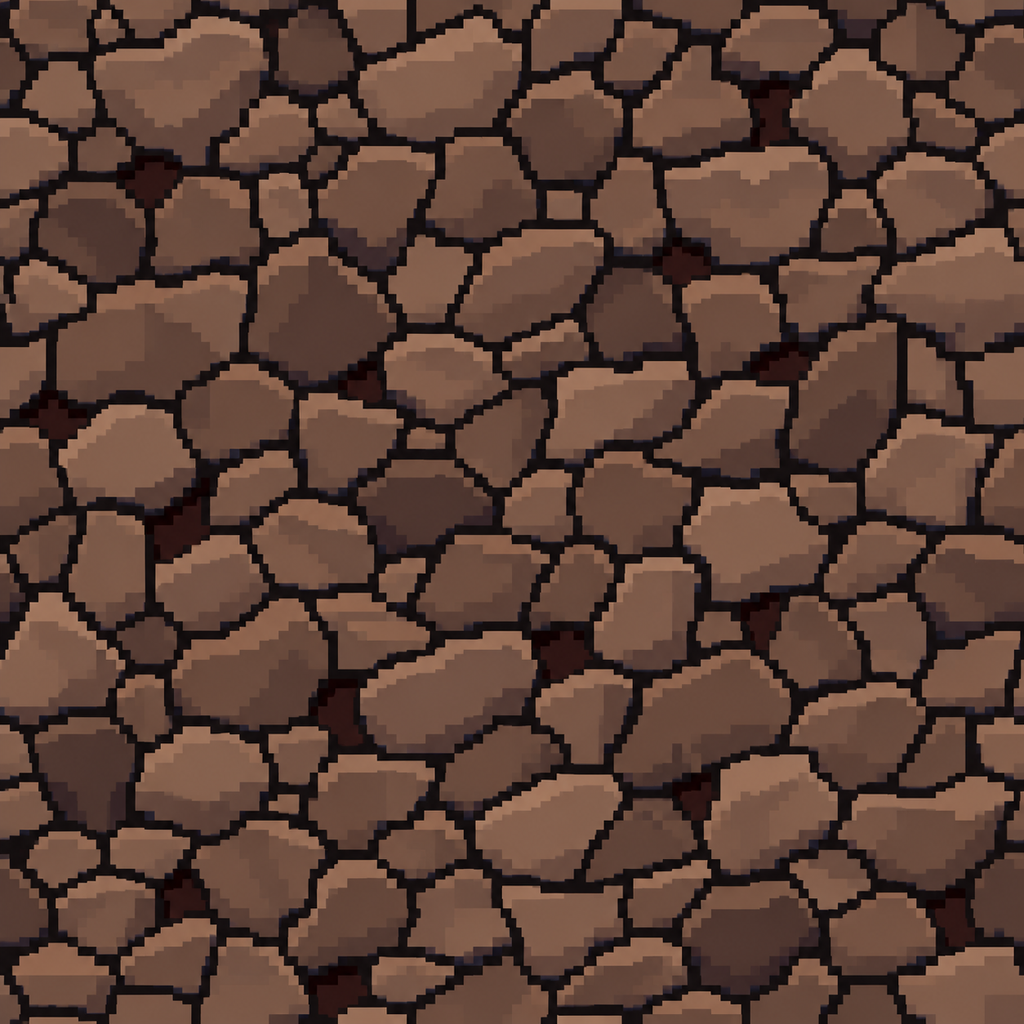
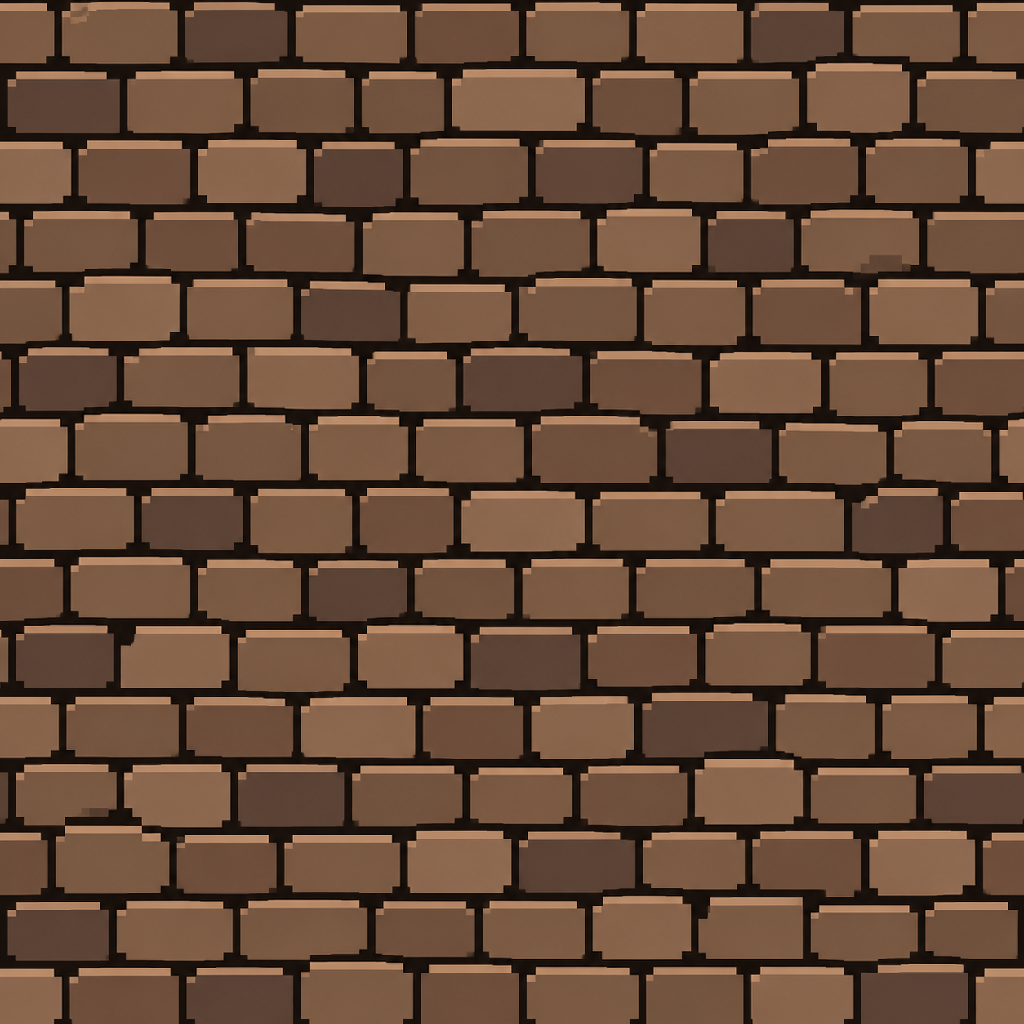
1649, 1650, 1656: coursed paving, earth with material, tall edge trees

diff --git a/live/dungeon.js b/live/dungeon.js
@@ -235,9 +235,9 @@
     grates: [[24.6, 27.4], [29.4, 27.4]], ivy: [[13, 27.6], [21, 27.6], [32.5, 27.6], [38, 27.6], [6, 11.6], [6, 23.6], [38, 15.6], [46, 21.6]],
     // ruin stubs the seed picks some of, and spots for the small decor
     stubs: [[14, 8], [45, 8], [10, 27], [5, 26], [49, 13], [12, 14]],
-    small: [['barrel', 13, 11], ['crate', 21, 11], ['barrel', 20, 14], ['crate', 33, 11], ['barrel', 41, 11], ['rack', 5, 12], ['table', 5, 18], ['crate', 6, 20], ['barrel', 6, 25],
-      ['crate', 49, 11], ['barrel', 12, 30], ['barrel', 9, 10], ['crate', 35, 25], ['barrel', 47, 27], ['crate', 6, 27], ['barrel', 7, 12], ['crate', 6, 17],
-      ['crate', 50, 12], ['barrel', 50, 16], ['crate', 15, 11], ['barrel', 21, 9]],
+    small: [['barrel', 13, 11], ['crate', 21, 11], ['rack', 5, 12], ['table', 5, 18], ['crate', 6, 20], ['barrel', 6, 25],
+      ['crate', 49, 11], ['barrel', 12, 30], ['crate', 6, 27], ['barrel', 7, 12], ['crate', 6, 17],
+      ['crate', 50, 12], ['barrel', 50, 16]],
     // what a niche keeps: its stores, and a small fire at the back
     store: ['barrel', 'crate', 'shop_sacks', 'shop_crate', 'barrel', 'crate'] };
   // a portal's ring of stones (TASKS 1037): the town's and a chapter boss's are one ring, eight stones round 240° with the gap
@@ -272,14 +272,16 @@
       // a hash, not R(): the decals after this list keep the layouts of saved towns
       ...Array.from({ length: W * H }, (_, k) => k).flatMap((k) => { const x = k % W, y = Math.floor(k / W), h = (x * 73 + y * 37) % 100; if (cells[k] !== 0 || cells[k + W] !== 1 || y < 2 || x < 2 || x > W - 3) return [];
         const px = (x + 0.5) * TILE, py = (y - 1) * TILE + 8, opR = cells[k + 1] === 1 || cells[k + 1 + W] === 0, opL = cells[k - 1] === 1 || cells[k - 1 + W] === 0;
-        if (opR && !opL) return [{ x: px + 2, y: py, n: 'wall_end_tw_a', role: 'wall_end' }]; if (opL && !opR) return [{ x: px - 2, y: py, n: 'wall_end_tw_b', role: 'wall_end' }];
-        return h < 22 ? [{ x: px, y: py, n: h % 2 ? 'wall_end_tw_c' : 'wall_end_tw_d', role: 'wall_end', f: h % 3 ? 1 : -1 }] : []; }),
+        const v = (x * 11 + y * 5) % 7, big = v === 3;
+        if (opR && !opL) return v % 3 === 0 && !big ? [] : [{ x: px + 2 - v, y: py + (v % 2) * 3, n: big ? 'wall_end_tw_c' : 'wall_end_tw_a', role: 'wall_end', s: 0.8 + 0.06 * v }];
+        if (opL && !opR) return v % 3 === 1 ? [] : [{ x: px - 2 + v, y: py + (v % 2) * 3, n: big ? 'wall_end_tw_d' : 'wall_end_tw_b', role: 'wall_end', s: 0.8 + 0.06 * v }];
+        return h < 12 ? [{ x: px + (h % 5) * 3 - 6, y: py + (h % 3) * 2, n: ['wall_end_tw_d', 'wall_end_tw_c', 'wall_end_tw_a', 'wall_end_tw_b'][h % 4], role: 'wall_end', f: h % 3 ? 1 : -1, s: 0.7 + 0.05 * (h % 5) }] : []; }),
       ...T.rubble.map(([x, y], i) => ({ ...at([x, y]), n: 'blocks_tw', role: 'rubble', s: 0.6 + 0.1 * (i % 4), f: i % 2 ? -1 : 1 })),
       // the portal's ring, open toward the square; a horseshoe of small stones round the forge's back
       ...portalRing(wx(T.portal[0]), wy(T.portal[1]), 0).map((q) => ({ ...q, role: 'portal_stone', solid: 1 })),
       ...T.lamps.filter(([x, y]) => cells[(y - 1) * W + x] === 1).map(([x, y]) => ({ ...at([x, y]), n: 'torch_stand', role: 'lamp', solid: 1 })),
             // three trees round the edge, not one six times (TASKS 1030)
-      ...T.edge.map(([x, y], i) => ({ ...at([x, y]), n: ['tree_tw_b', 'tree_tw_c', 'tree_tw'][i % 3], role: 'edge', solid: 1, s: 0.85 + 0.1 * ((i >> 1) % 3), f: (i >> 1) % 2 })),
+      ...T.edge.map(([x, y], i) => ({ ...at([x, y]), n: ['tree_tw_b', 'tree_tw_c', 'tree_tw'][i % 3], role: 'edge', solid: 1, s: (100 + (i * 7) % 21) / [76, 60, 70][i % 3], f: (i >> 1) % 2 })),
       ...T.small.filter(() => R() < 0.9).map(([n, x, y]) => ({ x: wx(x) + Math.round((R() - 0.5) * 10), y: wy(y) + Math.round((R() - 0.5) * 6), n, solid: 1 })),
       // each niche: its stores along the back and a few candles burning among them
       ...T.niches.flatMap(([x0, y0, w, h], k) => { const out = [], back = y0 < 10 ? y0 : y0 + h - 1, side = x0 > 50;

diff --git a/TASKS.md b/TASKS.md
@@ -179,25 +179,19 @@
 
 1623. ⏳ **[С][А]** Стены лентами и обод (`town_fidelity_r6` № 2, `town_assets_r6` № 2–3): сегменты обрублены прямоугольником, обод читается плиточным полом (stdL 6,3 при 16,0), чёрная сетка 32 px из `scene_map.js`, период верха 96 px. Битые торцы, зубчатый верх, обломки и зелень по краю, сетку убрать. Объём M–L. Из 1026, R-17. → 09.11.2026: чёрная сетка 32 px убрана, блоки и швы по случайным местам, новые `wall_end_tw_a–d` на концах стен и зубцами сверху. **Осталось:** период верха стены 96 px, обломки и зелень в ободе.
 
-1630. ⏳ **[А]** Зелень и пропсы (`town_assets_r6` № 5, 6, 11): цветы конфетти при «редком акценте» библии, головка в пол-лица героя, папоротники и мох у факелов уходят в горчицу (часть — следствие бахромы из 1432); деревья 60–76 px ниже героя (84), лимит библии спорный; повтор наборов пропов вдоль северного края. Объём M. Из 1026, R-17. → 09.11.2026: цветы только куртинами у стен и мельче (11–12 px), папоротники и мох к оливе. **Осталось:** деревья и повтор наборов пропов.
+1630. ⏳ **[А]** Зелень и пропсы (`town_assets_r6` № 5, 6, 11): цветы конфетти при «редком акценте» библии, головка в пол-лица героя, папоротники и мох у факелов уходят в горчицу (часть — следствие бахромы из 1432); деревья 60–76 px ниже героя (84), лимит библии спорный; повтор наборов пропов вдоль северного края. Объём M. Из 1026, R-17. → 09.11.2026: цветы только куртинами у стен и мельче (11–12 px), папоротники и мох к оливе. **Осталось:** деревья и повтор наборов пропов. → 09.11.2026: деревья закрыты в 1656, наборы пропов прорежены (1655).
 
 1414. 🔁 **[С]** Структура света (`town_fidelity_r4` № 1): доля L > 30 — 14,1 % против 24,7 % у рефа, стена у факела L 50 при 22 вдали от него, земля темнее на 1,0–1,4 стопа. Потолок яркости на гранях стен, окружение поднять только на земле. Объём M. Из 1026, R-17. → 09.11.2026: настенные факелы слабее (0,55), `floorG` 1,3. Эффект — по раунду 5. → 09.11.2026 (раунд 7): `wallG` 1,1→0,9, стены у огня не пересвечены. Доля L > 30 — по кадрам раунда 7.
 
 1406. 🔁 **[А]** Повторы и вид (`town_assets_r3` № 3–5): 2–3 варианта плюща и второй вариант решётки; вагонетка анфас на диагонали и насыщеннее эстакады; горн читается хлебной печью (`forge_tw`, также `town_fidelity_r3`); петля на блоке эстакады похожа на виселицу; мусор в телах метельщицы и ребёнка. Объём M. Из 1026, R-17. → 09.11.2026 сделано: второй вариант плюща и решётки, горн — каменная подкова с очагом, вместо петли цепь с крюком, вагонетка приглушена. **Осталось:** косые варианты вагонетки, мусор в телах метельщицы и ребёнка. → 09.11.2026: вагонетка наклоняется вдоль диагонали (1432). **Осталось:** мусор в телах метельщицы и ребёнка.
 
-1649. ⏳ **[С][А]** Рисунок мостовой (`town_fidelity_r7` № 2, регрессия `fbdf873`): случайные многоугольники ≈30–45 px вместо рядов 16–22×10–14 px у рефа. Сверка считает регрессией, критик ассетов принял цвет: сохранить тепло и контраст, вернуть геометрию `677af8f` или перегенерировать мельче. Объём S–M. Из 1026, R-17.
+1651. ⏳ **[С][А]** Стены и обод (`town_fidelity_r7` № 4, остаток 1623, `town_assets_r7` № 2): обод stdL 5,6 при 16,0, стены всё ещё лентой; новые `wall_end_tw_a–d` стали штампом: почти на каждом сегменте одна схема. Реже, разные сочетания, обломки и зелень в ободе, период верха стены. Объём M. Из 1026, R-17. → 09.11.2026: `wall_end_tw_a–d` реже, в разных сочетаниях, со сдвигом и масштабом. **Осталось:** стены лентой, обломки и зелень в ободе, период верха (`TST` 96 общий для всех биомов, увеличение растянет камень).
 
-1650. ⏳ **[С]** Земля без материала (`town_fidelity_r7` № 3, № 7 в r6): L50 6,3 при 13,2, stdL 2,3 при 10,6. Рисунок и подъём земли. Объём M. Из 1026, R-17. → 09.11.2026: `amb` города +13 %. **Осталось:** рисунок земли `floor_tw_tex`.
+1652. ⏳ **[С][А]** Кольца портала и рун (`town_fidelity_r7` № 5, `town_assets_r7` № 3): камни портала L 12,9 при 35,8, диск лежит половиной на брусчатке; `runes_tw` после перевода в серый распалось в кадре на редкие синие пятна (регрессия). Объём S–M. Из 1026, R-17. → 09.11.2026: трава убрана с колец рун и диска, `grade` рун 2,2, у портала свой свет. **Осталось:** камни портала ярче, брусчатка под всё кольцо.
 
-1651. ⏳ **[С][А]** Стены и обод (`town_fidelity_r7` № 4, остаток 1623, `town_assets_r7` № 2): обод stdL 5,6 при 16,0, стены всё ещё лентой; новые `wall_end_tw_a–d` стали штампом: почти на каждом сегменте одна схема. Реже, разные сочетания, обломки и зелень в ободе, период верха стены. Объём M. Из 1026, R-17.
+1653. ⏳ **[С]** Рельсы и каменщик (`town_fidelity_r7` № 6): ≈250 px диагональю вместо ≈830 px вдоль нижней стены, каменщик не на месте. Объём M. Из 1026, R-17. → 09.11.2026: **нужно решение игрока:** находка критика (рельсы ≈830 px вдоль всей южной стены) расходится с 1151, где игрок просил увести рельсы от ворот; без решения не трогаю.
 
-1652. ⏳ **[С][А]** Кольца портала и рун (`town_fidelity_r7` № 5, `town_assets_r7` № 3): камни портала L 12,9 при 35,8, диск лежит половиной на брусчатке; `runes_tw` после перевода в серый распалось в кадре на редкие синие пятна (регрессия). Объём S–M. Из 1026, R-17.
-
-1653. ⏳ **[С]** Рельсы и каменщик (`town_fidelity_r7` № 6): ≈250 px диагональю вместо ≈830 px вдоль нижней стены, каменщик не на месте. Объём M. Из 1026, R-17.
-
-1655. ⏳ **[А]** Кузница и пропсы (`town_assets_r7` № 1, 4, остаток 1630): устье `forge_tw` закрыто кузнецом, видна розовая дуга; наборы бочек, ящиков, свечей и мешков повторяются по краю. Объём M. Из 1026, R-17.
-
-1656. ⏳ **[А][И]** Деревья (`town_assets_r7` № 5, остаток 1630): лимит высоты библии даёт деревья ниже героя. **Решение игрока 09.11.2026:** деревья у края двора 100–120 px, лимит в `art/style_bible.txt` обновлён; осталось увеличить или перерисовать `tree_tw*` у края. Объём S–M. Из 1026, R-17.
+1655. ⏳ **[А]** Кузница и пропсы (`town_assets_r7` № 1, 4, остаток 1630): устье `forge_tw` закрыто кузнецом, видна розовая дуга; наборы бочек, ящиков, свечей и мешков повторяются по краю. Объём M. Из 1026, R-17. → 09.11.2026: убрано 8 одиночных бочек и ящиков из `T.small`. **Осталось:** устье `forge_tw`, 4–6 новых вещей (корзины, ведро, тюк сена, балка, колесо), второй вариант столба.
 
 1658. ⏳ **[Г]** Полка между боссами (`town_game_r7` № 2): товар меняется только после босса, возврат между боссами приносит мало нового (`live/sim_floor.js:155`). Решать в разделе баланса. Объём S. Из 1026, R-17.
 

diff --git a/TASKS_COMPLETED.md b/TASKS_COMPLETED.md
@@ -1211,6 +1211,12 @@
 
 1648. ✅ **[С]** Службы без своего огня (`town_fidelity_r7` № 1): L p99 реф/наш: горн 99,6/60,8, алтарь 95,4/39, портал 79,6/22, фонарь штольни 88,8/57,1; пол у алтаря b −23,1 при +6,2. `TOWN_LIGHT`, рантайм-огонь на службах. Объём M. Из 1026, R-17. → 09.11.2026: сила и радиус `TOWN_LIGHT` у горна, алтаря, рун, стекло фонаря штольни, свет портала. **Осталось:** рантайм-огонь свечей алтаря. → 09.11.2026: свечи алтаря горят рантайм-огнём.
 
+1649. ✅ **[С][А]** Рисунок мостовой (`town_fidelity_r7` № 2, регрессия `fbdf873`): случайные многоугольники ≈30–45 px вместо рядов 16–22×10–14 px у рефа. Сверка считает регрессией, критик ассетов принял цвет: сохранить тепло и контраст, вернуть геометрию `677af8f` или перегенерировать мельче. Объём S–M. Из 1026, R-17. → 09.11.2026: мостовая перегенерирована рядами мелких прямоугольных камней со смещением, тёплый контраст сохранён.
+
+1650. ✅ **[С]** Земля без материала (`town_fidelity_r7` № 3, № 7 в r6): L50 6,3 при 13,2, stdL 2,3 при 10,6. Рисунок и подъём земли. Объём M. Из 1026, R-17. → 09.11.2026: `amb` города +13 %. **Осталось:** рисунок земли `floor_tw_tex`. → 09.11.2026: `floor_tw_tex` перегенерирована: средние тона, камешки, пятна почвы.
+
+1656. ✅ **[А][И]** Деревья (`town_assets_r7` № 5, остаток 1630): лимит высоты библии даёт деревья ниже героя. **Решение игрока 09.11.2026:** деревья у края двора 100–120 px, лимит в `art/style_bible.txt` обновлён; осталось увеличить или перерисовать `tree_tw*` у края. Объём S–M. Из 1026, R-17. → 09.11.2026: деревья у края двора 100–120 px через масштаб, арт прежний.
+
 ## Архитектура и рефакторинг (параллельная работа, переносимость)
 
 500. ✅ **[Г]** Разбор и карта границ (первый этап, без переноса кода): по `scene.js`, `sim.js`, `dungeon.js`, `data.js` составить карту «что за что отвечает» и какие фичи сейчас трогают один и тот же кусок (бой, лут и инвентарь, умения, меню и мета, город, биомы, события, бесконечный спуск, HUD, бот). Предложить целевую раскладку на модули с публичным контрактом у каждого (кто что читает и пишет в `S`), порядок загрузки и порядок этапов 501–504. Результат — раздел в `ARCHITECTURE.md` и правка этого списка под найденное; в карту — где сейчас живут видимые игроку тексты (для 1141). Объём S. → Сделано 07.11.2026: `ARCHITECTURE.md` — карта четырёх файлов по строкам, горячие места конфликтов (`SC.render` ≈1280 строк, `stepMonsters`, `stepUI` на 16 экранов, `selfCheck` ≈2530 строк — половина `sim.js`, `SCENE.QA()` ≈1480, строка экспорта `SIM`), целевая раскладка с плоскими файлами `data_*`/`dungeon_*`/`sim_*`/`scene_*` и манифестом `modules.js`, способ связи частей (общий объект слоя, ранние имена деструктуризацией, вызовы вперёд через объект), контракт чтения и записи `S`, эталон `samecheck.mjs` для доказательства переноса, где живут тексты. Граница логики уже чистая: в `data.js`, `dungeon.js`, `sim.js` нет обращений к DOM, отрисовка зовёт из `SIM` только чтение, кроме QA. `dungeon.js` вынесен в 1142, список 501–504 уточнён.
